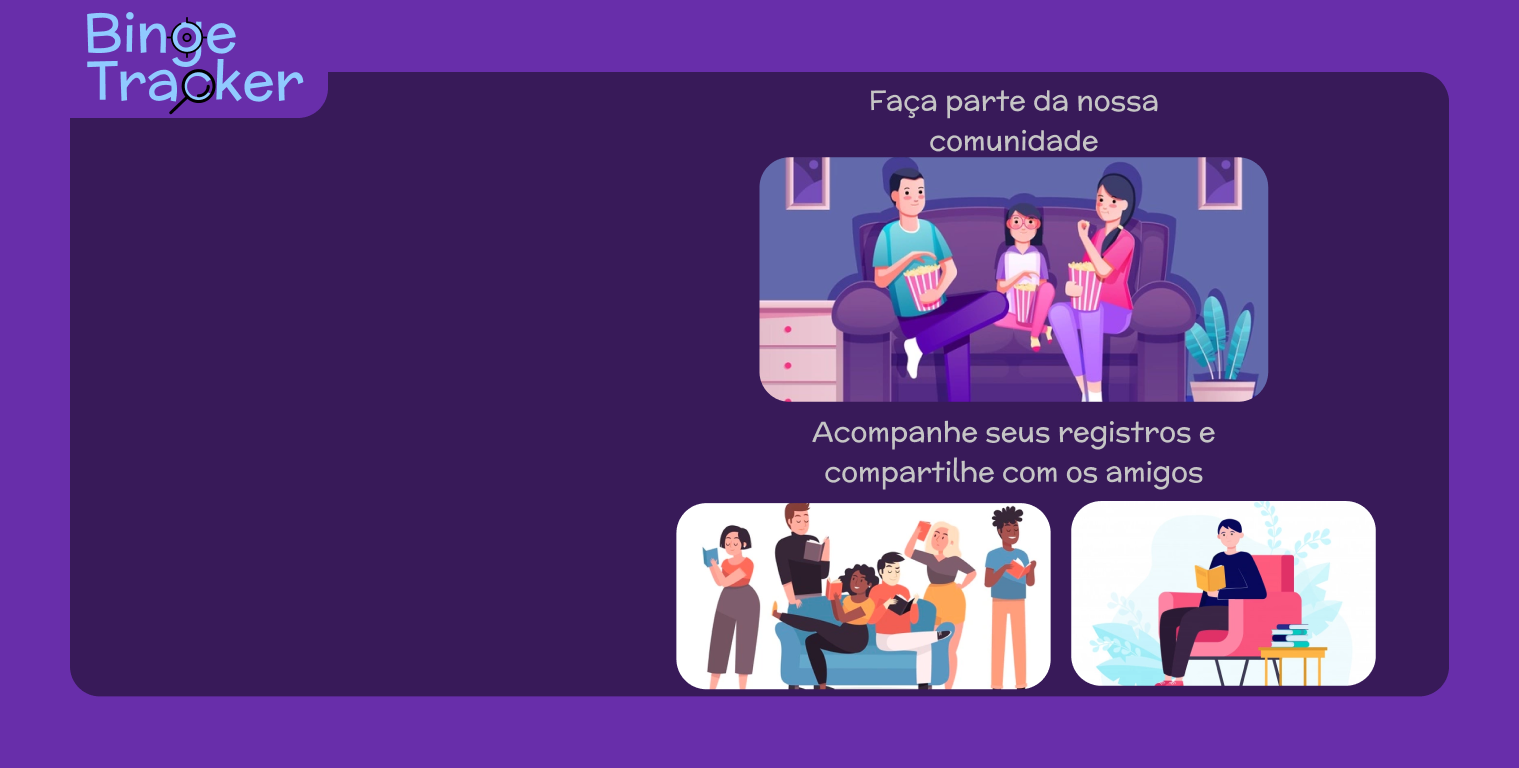
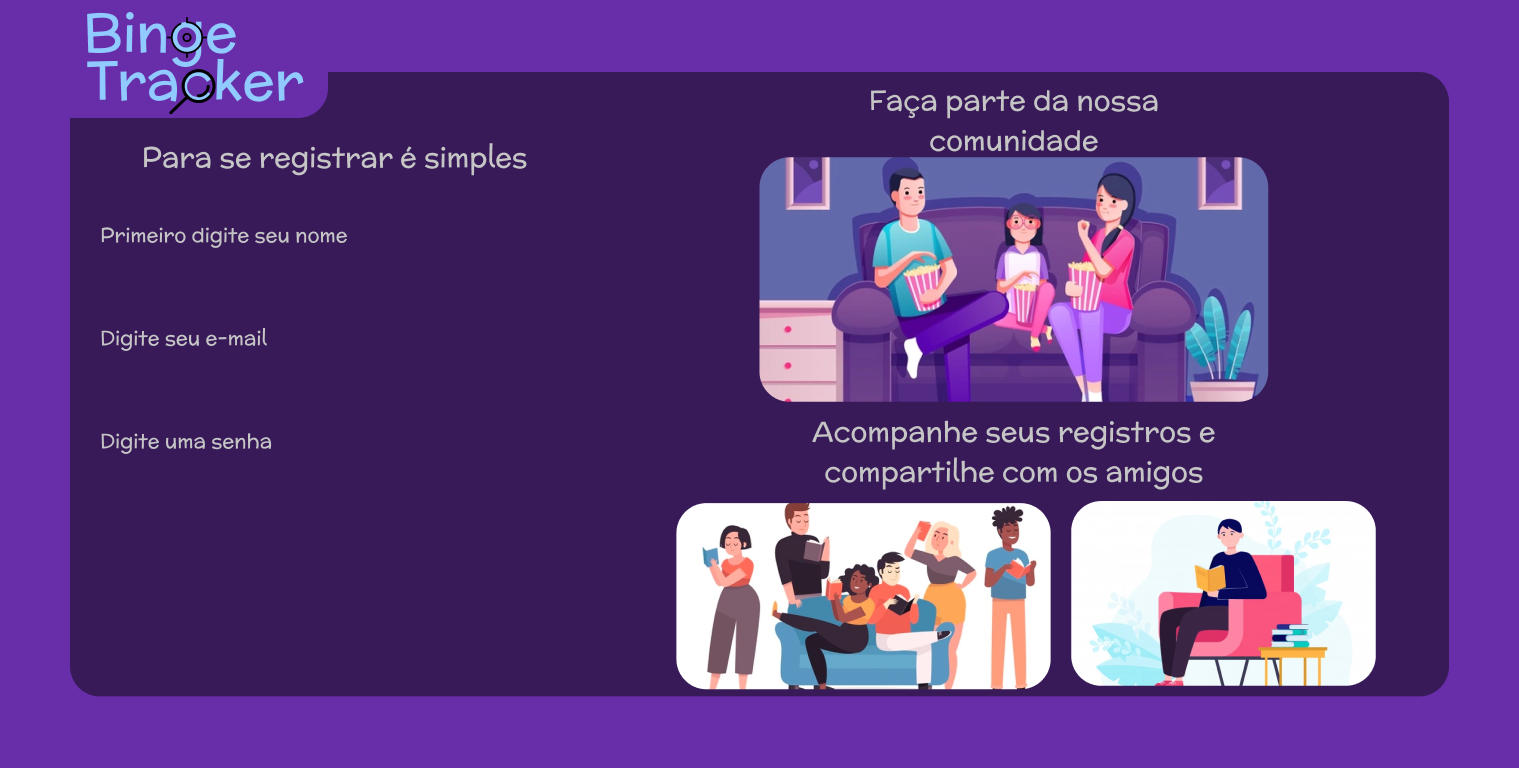
passando as coisas pro front

diff --git a/frontend/src/pages/cadastro/index.js b/frontend/src/pages/cadastro/index.js
@@ -10,49 +10,77 @@ function Header() {
 
     return (
         <AreaPag> 
+            
 
             <form> 
-                <label size='20px'>Digite seu nome</label>
-
-                <input type='text'
+                <input 
+                style={{
+                    backgroundColor: '#C4C4C4',
+                    width: '480px',
+                    height:'40px',
+                    marginLeft: '95px',
+                    marginTop:'250px',
+                    borderRadius: '30px'
+                }}
+                type='text'
                     {...register("nome")}
                     
                 />
-
-                <input type='email'
-                    {...register("email")}
-                />
-
-                <input type='password'
-                    {...register("senha")}
-                />
-
-                
-
-
             </form> 
 
-            <Button color= '#5B97CE' 
+            <form> 
+            <input
+                style={{
+                    backgroundColor: '#C4C4C4',
+                    width: '480px',
+                    height:'40px',
+                    marginLeft: '95px',
+                    marginTop:'63px',
+                    borderRadius: '30px'
+                }}
+                type='email'
+                    {...register("email")}
+                />
+            </form>
+
+            <form> 
+                <input 
+                style={{
+                    backgroundColor: '#C4C4C4',
+                    width: '480px',
+                    height:'40px',
+                    marginLeft: '95px',
+                    marginTop:'63px',
+                    borderRadius: '30px'
+                }}
+                type='password'
+                    {...register("senha")}
+                />
+                </form>
+
+            <Button color= '#90CAFF' 
             text= 'Cadastrar' 
-            width='228px' 
-            heigth='92px' 
-            marginTop='555px'
-            marginLeft='98px'
-            fontSize='30px' 
+            width='190px' 
+            heigth='60px'
+            borderRadius= '30px' 
+            marginTop='95px'
+            marginLeft='120px'
+            fontSize='24px' 
             onClick={ handleSubmit ( 
                 (data) => {
                     console.log(data)
-               
+                    history('/home')
                 }
-            ) }/> 
+            ) } /> 
 
-            <Button color= '#5B97CE' 
+            <Button color= '#90CAFF' 
             text= 'Cancelar' 
-            width='228px' 
-            heigth='92px' 
-            marginTop='555px'
-            marginLeft='32px'
-            fontSize='30px'
+            width='190px' 
+            heigth='60px'
+            borderRadius= '30px' 
+            marginTop='95px'
+            marginLeft='30px'
+            fontSize='24px'
             onClick={ () => {
                 
                 history('/')

diff --git a/frontend/src/components/Login/index.js b/frontend/src/components/Login/index.js
@@ -8,36 +8,38 @@ function Header() {
 
     return (
         <AreaPag> 
-            <Button color= '#5B97CE' 
-            text= 'Criar conta' 
-            width='359px' 
-            heigth='101px' 
-            left='155px' 
-            top='585px'
-            marginTop='585px'
-            marginLeft='198px'
-            fontSize='30px' 
+            <Button 
+            color= '#90CAFF' 
+            text= 'Criar conta'
+            textColor= 'white' 
+            width='300px' 
+            heigth='60px'
+            borderRadius= '30px'
+            marginTop='600px'
+            marginLeft='400px'
+            fontSize='24px' 
             onClick={ () => {
                 
                 history('/cadastro')
             }
             }/> 
 
-            <Button color= '#5B97CE' 
+            {/* <Button color= '#5B97CE' 
             text= 'Entrar com Google' 
             width='359px' 
             heigth='101px' 
             marginTop='585px'
             marginLeft='23px'
-            fontSize='30px'/> 
+            fontSize='30px'/>  */}
 
-            <Button color= '#5B97CE' 
+            <Button color= '#90CAFF' 
             text= 'Usar sem cadastro' 
-            width='359px' 
-            heigth='101px' 
-            marginTop='585px'
-            marginLeft='23px'
-            fontSize='30px'
+            width='300px' 
+            heigth='60px'
+            borderRadius= '30px'
+            marginTop='600px'
+            marginLeft='105px'
+            fontSize='24px'
             onClick={ () => {
                 
                     history('/home')

diff --git a/frontend/src/pages/Home/index.js b/frontend/src/pages/Home/index.js
@@ -1,28 +1,44 @@
 import React from 'react';
 import { useNavigate } from 'react-router';
 import { AreaPag } from './styled';
-import Button from '../../components/Button'
+import Button from '../../components/Button';
 
 
 function Header() {
     const history = useNavigate()
+    const sairImageClick = () => {
+        history('/');
+      }
+
+      const avatarImageClick = () => {
+        history('/livros');
+      } 
 
     return (
         <AreaPag> 
-             <Button color='#5B97CE' 
-            width='359px' 
-            heigth='101px' 
-            left='155px' 
-            top='585px'
-            marginTop='585px'
-            marginLeft='198px'
-            fontSize='30px' 
-            onClick={ () => {
-                
-                history('/')
-            }
-            }/> 
-            
+
+            <a style={{
+                marginTop:'120px',
+                marginLeft:'100px',
+                fontSize:'36px'
+            }}>Bem-Vindo, user </a>
+
+            <img src={require('./sair.png')} onClick={() => sairImageClick()}
+            style={{
+                width:'77px',
+                height:'77px',
+                marginLeft:'1146px',
+                marginTop: '90px',
+            }} />
+
+            <img src={require('./Avatar.png')} onClick={() => avatarImageClick()}
+            style={{
+                width:'77px',
+                height:'77px',
+                marginLeft:'50px',
+                marginTop: '90px',
+            }} />
+
         </AreaPag>
     );
 }

diff --git a/frontend/src/components/Button.js b/frontend/src/components/Button.js
@@ -1,12 +1,13 @@
 import PropTypes from 'prop-types'
 
-const Button = ({ color, text, onClick, width, heigth, marginTop, marginLeft, fontSize }) => {
+const Button = ({ color, text, onClick, width, heigth, borderRadius, marginTop, marginLeft, fontSize }) => {
     return (
         <button 
             onClick={onClick} 
-            style={{ backgroundColor: color, 
+            style={{ backgroundColor: color,
             width: width, 
             height: heigth,
+            borderRadius: borderRadius,
             marginTop: marginTop,
             marginLeft: marginLeft,
             fontSize: fontSize,
